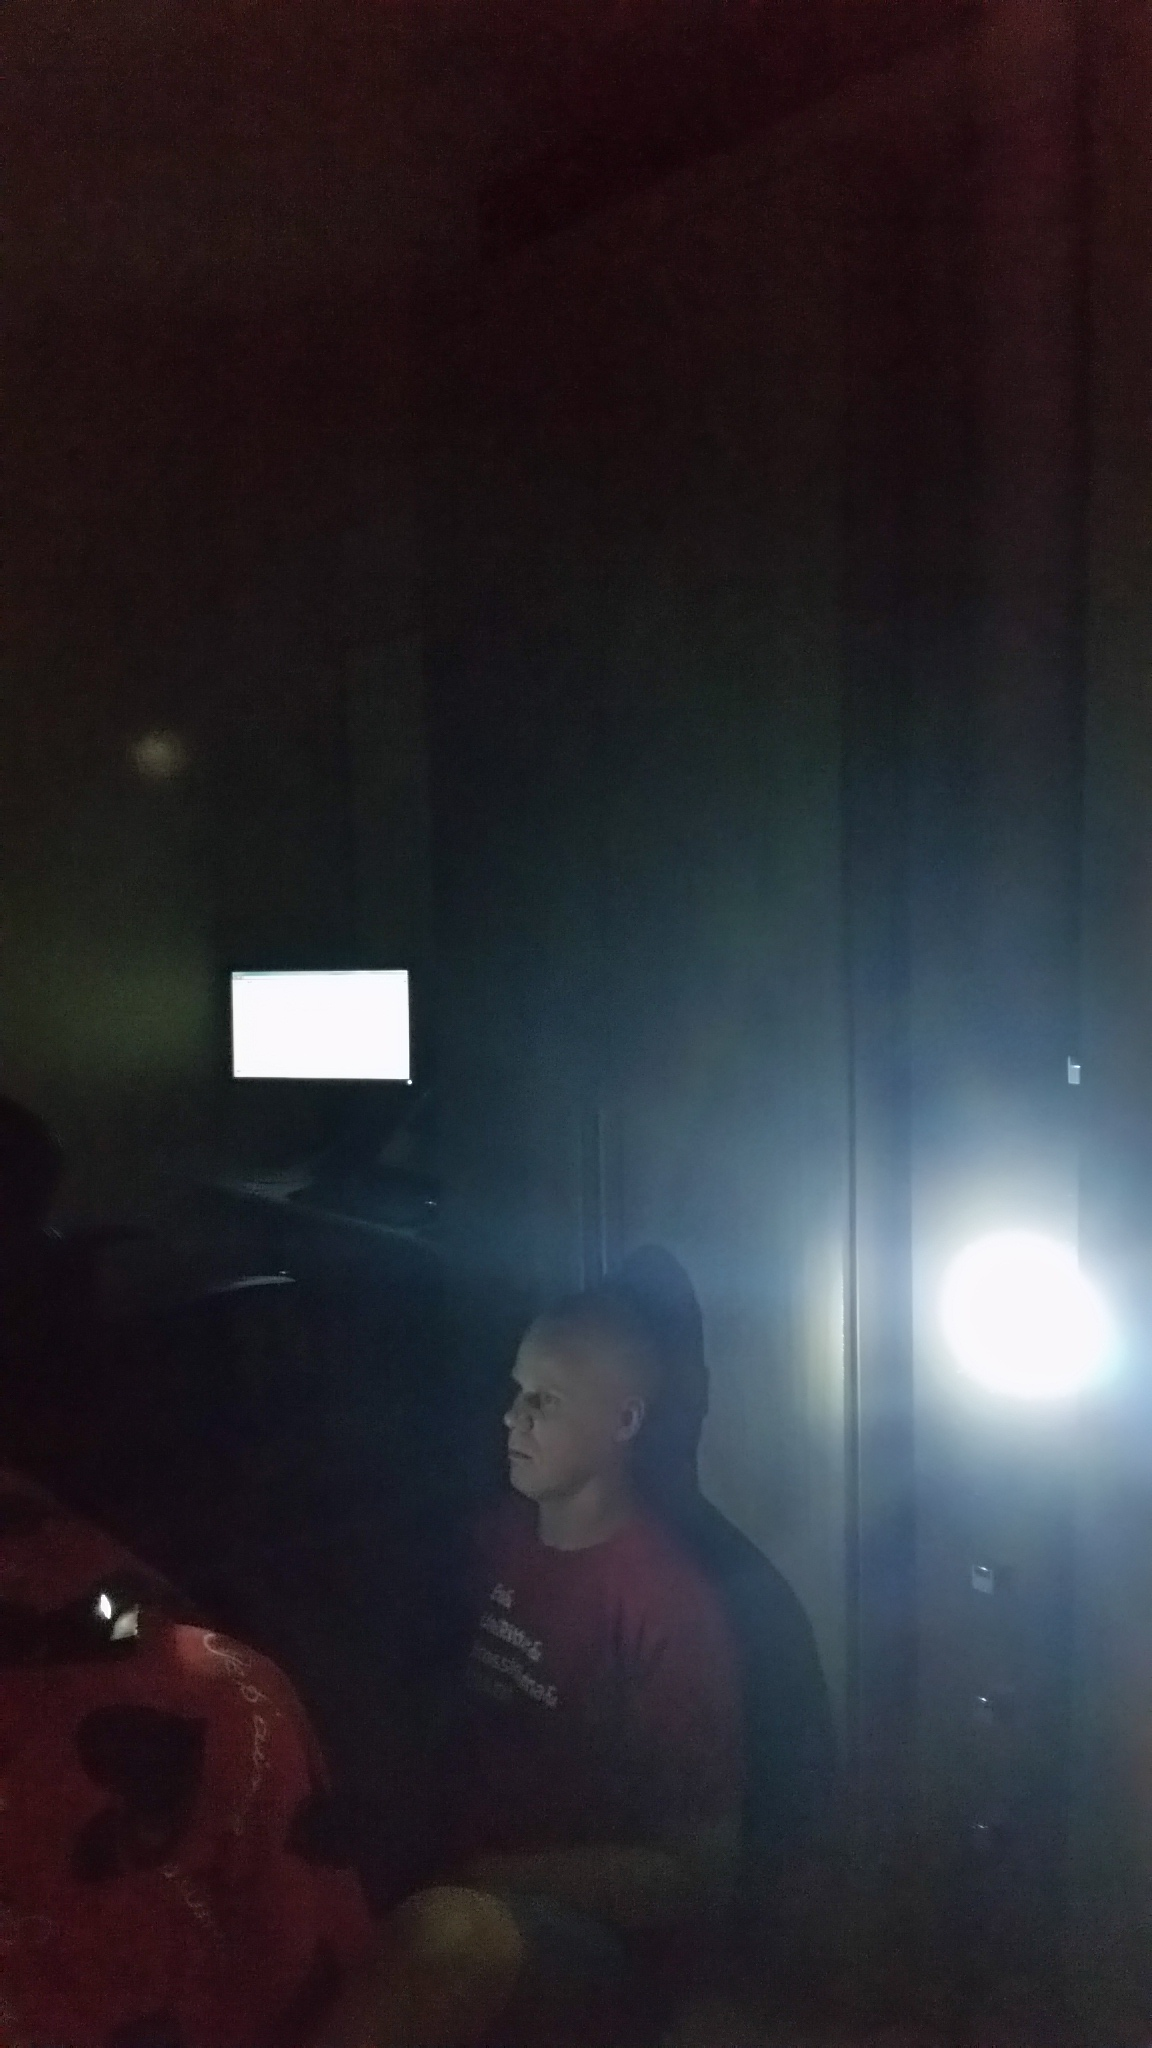
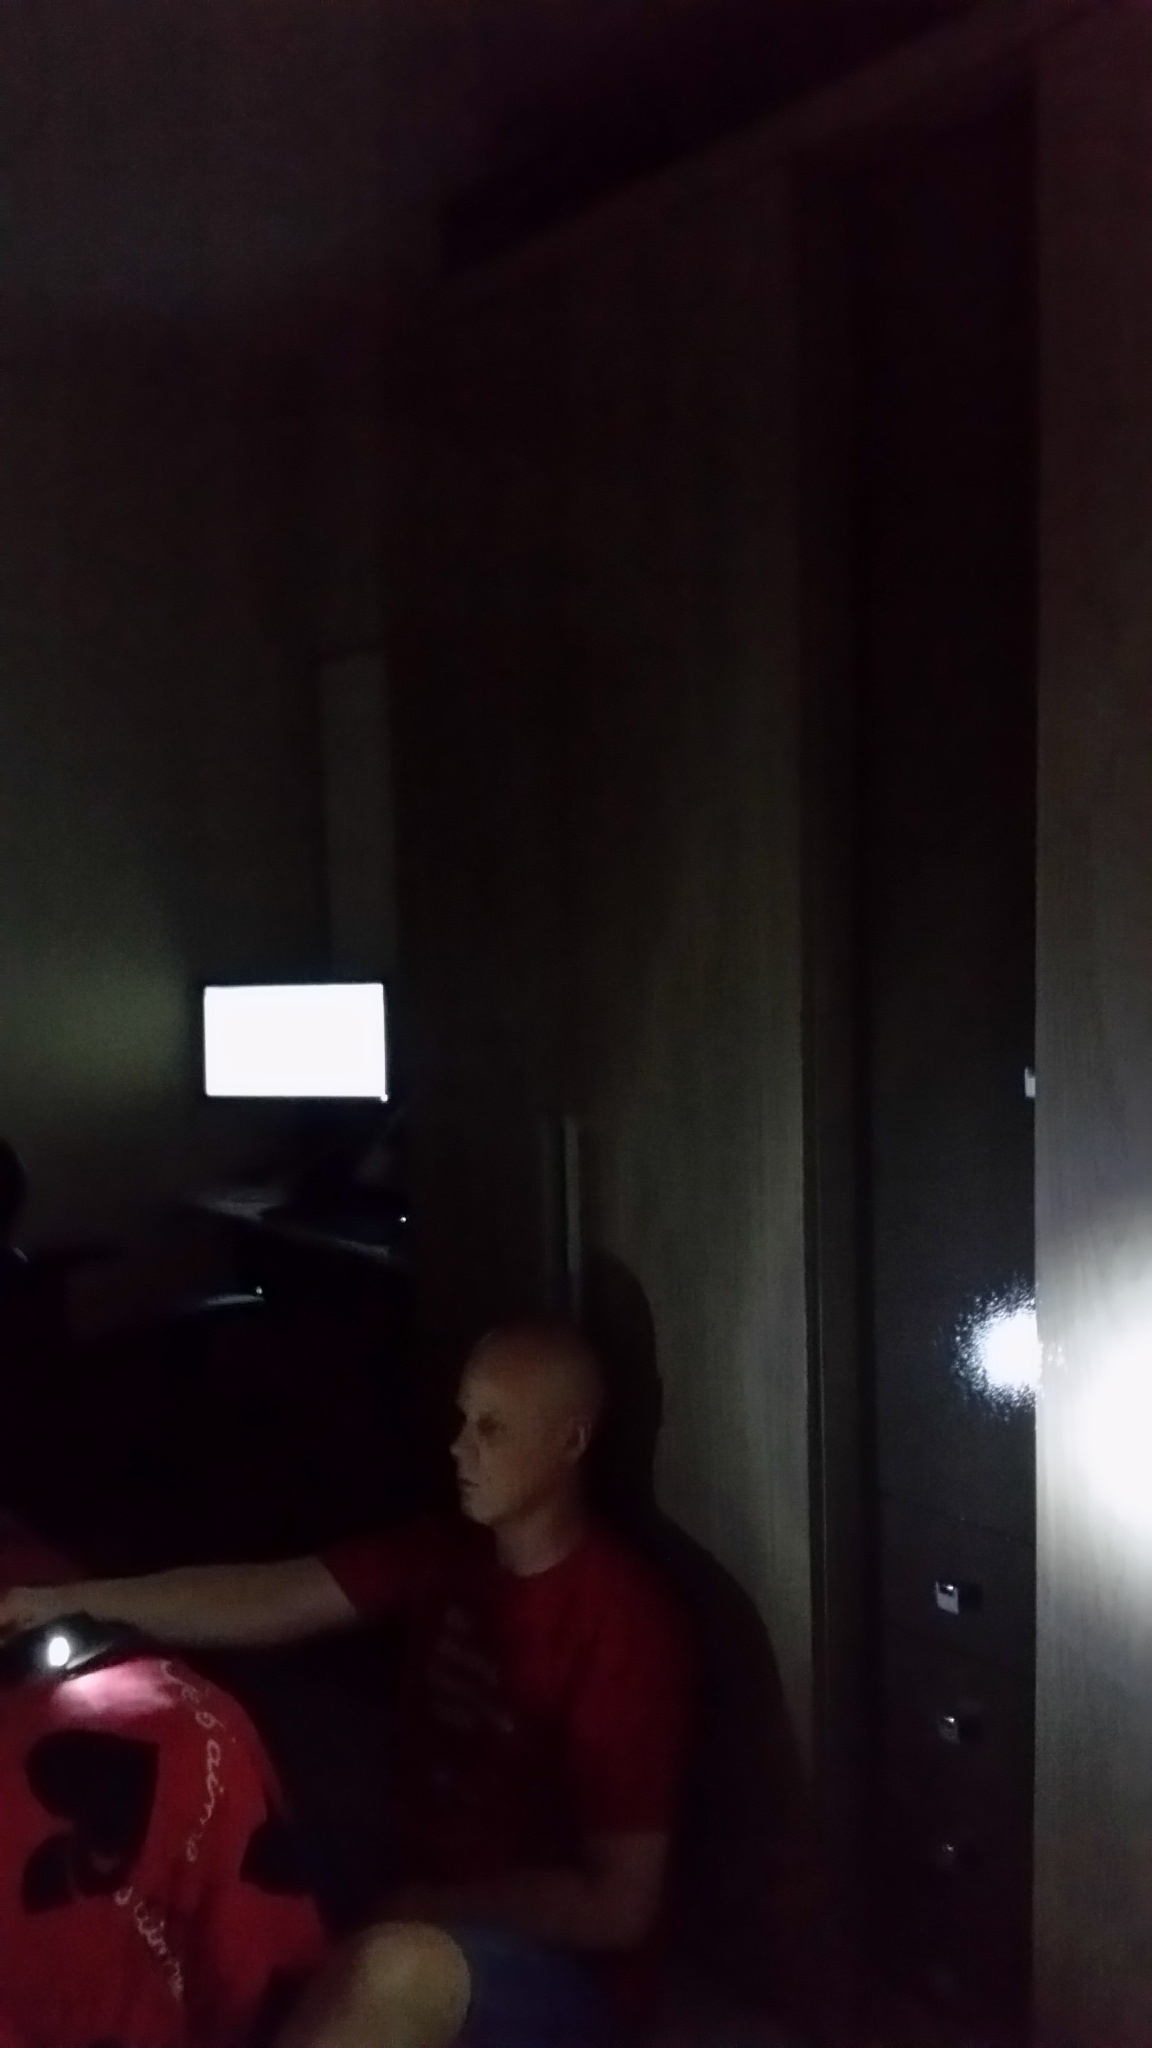
Final commit

diff --git a/filtragem-frequencia/homomorphic-filter.py b/filtragem-frequencia/homomorphic-filter.py
@@ -2,7 +2,7 @@ import cv2
 import numpy as np
 from math import exp, sqrt
 
-image = cv2.imread("resources/p3.jpg", 0)
+image = cv2.imread("resources/p2.jpg", 0)
 height, width = image.shape[:2]
 
 dft_M = cv2.getOptimalDFTSize(height)
